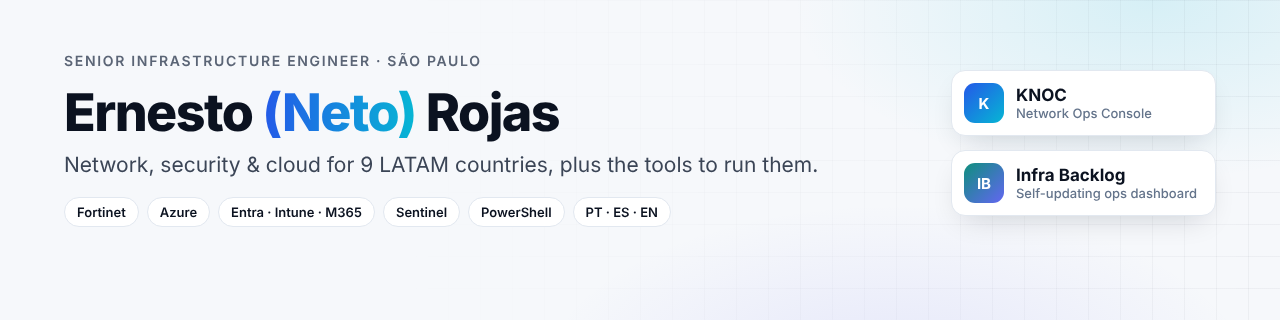
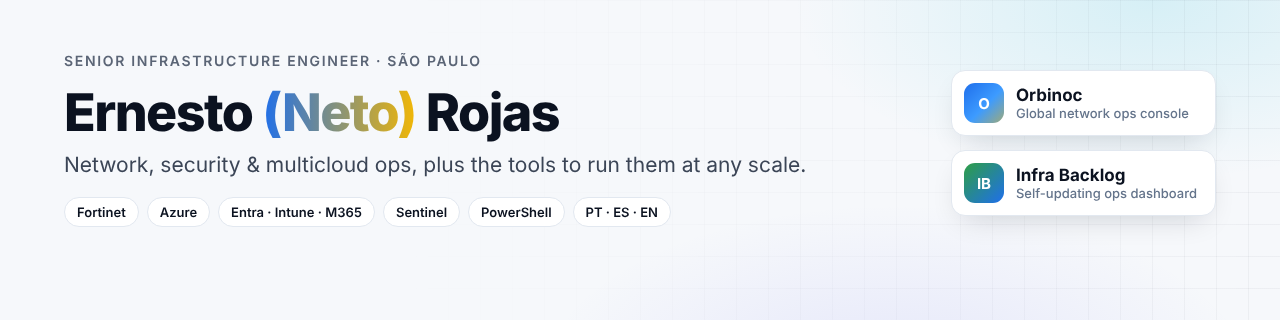
docs: Orbinoc v3 profile

diff --git a/README.md b/README.md
@@ -1,9 +1,8 @@
-![Ernesto (Neto) Rojas — Senior Infrastructure Engineer](banner.png)
+![Ernesto (Neto) Rojas — Infrastructure, Cloud & Security](banner.png)
 
 ### Hi, I'm Ernesto (Neto) 👋
 
-**Senior Infrastructure Engineer** in São Paulo. I run network, security and cloud operations for **9 LATAM countries**.
-I like turning messy operations into tools a team actually uses.
+**Infrastructure, Cloud & Security engineer** in São Paulo. I have run network, security and cloud operations across 9 countries, and I build the tools that make that work at any scale.
 
 🔧 **Fortinet** (FortiGate HA, FortiSwitch, FortiAP, IPsec/SSL VPN) · **Azure** (Arc, Lighthouse, networking) · **Entra ID / Intune / M365** · **Microsoft Sentinel** · **Teams Direct Routing** (AudioCodes SBC) · **VMware** · **PowerShell / Graph** · **ITSM** (ServiceDesk Plus)
 
@@ -13,10 +12,10 @@ I like turning messy operations into tools a team actually uses.
 
 | Project | What it shows |
 |---|---|
-| [**KNOC · Network Ops Console**](https://github.com/netorojas/knoc-network-ops-console) · [live demo](https://netorojas.github.io/knoc-network-ops-console/) | Map, topology, inventory, telephony and layer-by-layer troubleshooting for a 9-country network, in one HTML file |
-| [**Infra Backlog LATAM**](https://github.com/netorojas/infra-backlog-dashboard) · [live demo](https://netorojas.github.io/infra-backlog-dashboard/) | A self-updating ops dashboard: e-mail, Teams, Daily notes and the ITSM queue go in, and a prioritized, evidence-labelled backlog comes out |
+| [**Orbinoc · Network Ops Console**](https://github.com/netorojas/knoc-network-ops-console) · [live demo](https://netorojas.github.io/knoc-network-ops-console/) | One screen for your whole estate, from one country to the world: global map, topology, multicloud discovery (AWS, Azure, GCP, OCI, IBM, VMware, Proxmox, Kubernetes), telephony and layer-by-layer troubleshooting |
+| [**Infra Backlog**](https://github.com/netorojas/infra-backlog-dashboard) · [live demo](https://netorojas.github.io/infra-backlog-dashboard/) | A self-updating ops dashboard: e-mail, Teams, Daily notes and the ITSM queue go in; a prioritized, evidence-labelled backlog comes out |
 
-> All demos use a fictional company (Contoso LATAM). No customer data.
+> Fictional company (Contoso Global), no customer data. Both run on localhost (`./serve.sh`) or Docker. Open-core: AGPL-3.0 + commercial licence.
 
 #### 🧭 How I work
 - **Evidence before opinion**: every claim is labelled FACT, PROBABLE or HYPOTHESIS.
